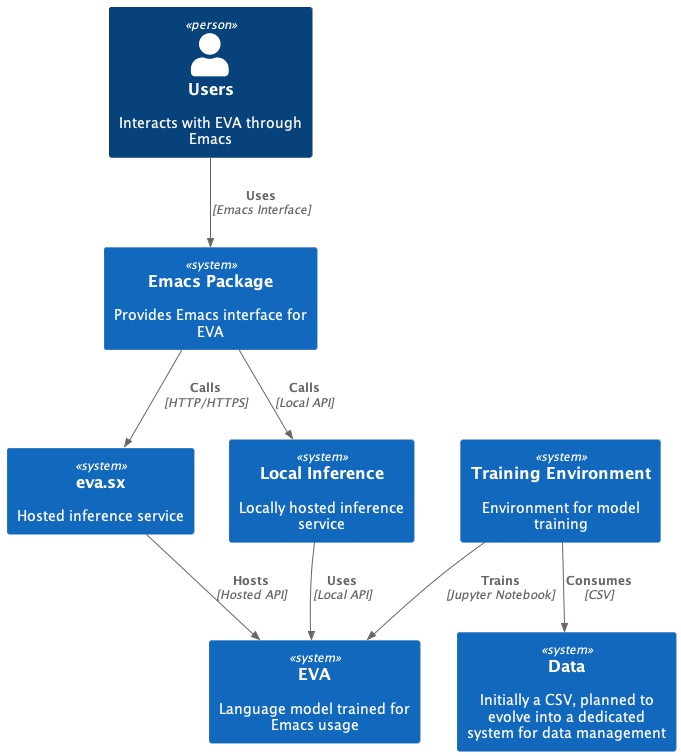
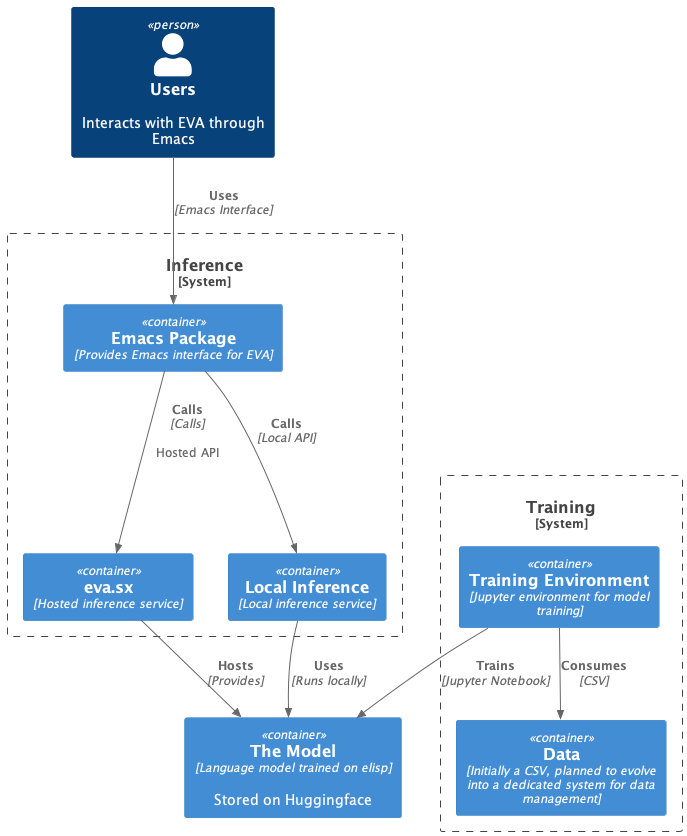
finshed draft

diff --git a/README.md b/README.md
@@ -1,13 +1,15 @@
 # EVA - Emacs Virtual Assistant
 <img src="assets/EVA-350.jpg" align="right" />
-EVA is the first AI trained to work along side you, in Emacs.
-The goal is to have her take on more and more of the actual manipulation of Emacs and its buffer content, while the human provides instructions and feedback. 
-This is to be achieved through a combination of a general-purpose language model and several specialized agents (coding, reasoning, memory, or [contribute](https://github.com/LazerJesus/EVA#contribution) your own); all trained on elisp, which is piped directly into the REPL.
-The project is under active development and has not yet launched. There is a proof of concept system in place, but it does not yet provide any value beyond being a proof of concept.
+EVA is the first AI designed to work along side you, in Emacs.
+The goal is to have her take on more and more of the actual manipulation of Emacs and its buffer content, while the user provides instructions and feedback. This is to be achieved through a language model trained on elisp.
+
+
+The project is under active development and has not yet launched. There is a finetuned Model, but it provides only limited functionality.
+
 
 If you haven't yet, read the announcement [Article](https://finnfrotscher.com/posts/eva-emacs-virtual-assistant/).
 
-My motivation for writing the article and this repository beyond gathering stars is (1) to convince you to contribute your valuable competence to this project and (2) to establish as a ground zero for a conversation about the model and application we are going to develop over the coming months and years. Hopefully.
+My motivations for writing the article and this repository are (1) to start a conversation about the model and application and (2) to convince you to contribute your valuable competence to this project.
 
 <div style="clear: both;"></div>
 
@@ -16,31 +18,10 @@ My motivation for writing the article and this repository beyond gathering stars
 | [Github](https://github.com/lazerjesus/eva) 
 | [Discord](https://discord.gg/9Uxn45ADJs)
 
-## Roadmap
-we have a few questions to answer before we can start building.
-on a high level those are (1) what do we launch first (2) how do we get data and (3) what do we build next.
-I have some ideas but I would love to hear yours. My ideas are summarized in challanges and strategy below. Please join the [Discord](https://discord.gg/9Uxn45ADJs) to discuss and contribute.
-
-## Challanges
-We are constrained in multiple dimensions and I see a few ways this project could go sideways. Those are data, ambition and timing. 
-
-### Data
-LLMs require large amounts of specific, high quality data and no such dataset exists for Emacs. We need data to train EVA to use Emacs. 
-
-### Ambition
-Getting lost in an overly large vision and not providing value immediately.
-
-### Timing
-Timing, or Performance. We are still very early in the development of LLMs, GPUs and the performance might just not be there yet. Maybe the model can't run on a local machines fast enough to provide a sane user with value. Maybe the model needs to be too large to be able to run locally. 
-
-## Strategy
-To solve these challanges I think we should focus on providing a small amount of value immediately and design the system in a way that allows us to add incremental value as the technology matures. Concretely this means that I think we should build and deploy a simple autocomplete system now. Probably based on Llama2. The value would be (1) that we start to build a community around the project. (2) That we provide immidiate value to users. (2) That we learn to run and deploy such a system in production. Then, in parallel, build out tools and methods for data aquisition and design custom models for specific, well defined tasks.
-
-I see two ways to get data. (1) We can generate it manually. Or (2) Users donate it. My sense is that it will be a combination of both. We provide a way for users to donate data, which is used to train the foundation model. And we maintain a high quality dataset by hand for finetuning the specific tasks and skills EVA should master.
-
-
 ##  Architecture
-Users interact with EVA through an Emacs package, which can communicate with either a locally hosted inference service or a hosted API at eva.sx. The core language model is trained in a separate environment and consumes the training data from a CSV. In the future, data should be generated and managed by a dedicated system.
+Let me provide an overview of the system I have in mind. Except for `eva.sx`, all components exist today, are open source and can be self-hosted. 
+
+Users interact with EVA through an Emacs package, which can communicate with either a locally hosted inference service or a hosted API. The core language model is trained in a separate environment and consumes the training data from a CSV. In the future, data should be generated and managed by a dedicated system. 
 
 <img src="docs/context.png" />
 
@@ -51,21 +32,57 @@ eva.sx: Centralized service hosting the inference API.
 Local Inference: Handles inference tasks for local setups.
 EVA: Core language model for code completion and Emacs functionalities.
 Training Environment: Separate setup for model training.
-Data: Initial CSV file for training, planned to evolve into a dedicated system.
+Data: Currently a CSV file, planned to evolve into a dedicated system.
 
+## Roadmap
+We have a few questions to answer before we can start building.
+on a high level those are 
+1. What do we launch first to provide immediate value?
+2. How do we get large amounts of high quality data?
+3. What do we build next?
+
+I have some ideas and I would love to hear yours. Please join the [Discord](https://discord.gg/9Uxn45ADJs) to discuss and contribute. My ideas are summarized below:
+
+## Challanges
+I see a few ways this project could go sideways and stale. Those are data, ambition and timing. 
+**Data** LLMs require large amounts of specific, high quality data and no such dataset exists for Emacs. 
+**Ambition** Getting lost in an overly large vision and not providing value immediately.
+**Timing** LLMs still require a lot of memory and compute, maybe prohibitively.
+
+## Strategy
+To solve these challanges I think we should focus on providing a small amount of value immediately and design the system in a way that allows us to add incremental value as the technology matures.
+
+I think we should build, deploy and monetize a simple autocomplete system now. Probably based on codellama.
+I beliebe this is the right strategy for the following reasons:
+(1) Since inference is costly and hosting it provides real value, we can monetize this to fund other aspects of the project. Like data generation!
+(2) We start to build a community around the project and are able to get users.
+(3) We learn to run and deploy such a system in production, as an OSS community.
+
+Once this is in place, we build out tools and methods for data aquisition and design custom models for EVA. I have some ideas here too but lets not get ahead of ourselves.
+
+## Miletstones
+From my current vanatage point, I see the project taking these three steps:
+
+### Alpha - Proof of Concept
+We are here. The idea is articulated and a demonstration of the system is available. Now we need to build a community around the project and decide what to do next.
+If the community agrees, we will build a hosted autocomplete service based on codellama and a system for data aquisition and curation. 
+
+### Beta - Working Autocomplete Service
+The beta phase is reached when we have a working autocomplete service. Now we can start to grow and monetize the service to support larger ambitions. Having users and cashflow allows us to take the first stab at the __real__ vision.
+
+### Version 1.0 - A Fully Working System
+Upon reaching version 1.0, we start itterating. What this will look like is up to the community to ideate and commit to.
 
 ## Data
-AI is very hungry for data. codellama was trained on 500.000.000.000 tokens. That's a lot of data. The 18k lines trainingset I used for the proof-of-concept is 740.722 tokens. 499.999.259.278 to go. We need to find a way to get data for EVA. Lets start with the types of data. For training EVA, we essentially need two types of datasets: 
+AI is very hungry for data. Codellama was trained on 500.000.000.000 tokens. That's a lot of data. The 18.000 lines trainingset I used for the proof-of-concept is 740.722 tokens. 499.999.259.278 to go. We need to find a way to get data for EVA.
+
+Lets start by looking at the types of data needed. For training EVA, we essentially need two types of datasets.
 
 ### Foundational Data
-This is a massive amount of data that might be generated by recording regular Emacs usage sessions, which would provide a broad base of interactions to train the foundational model. With this, EVA can learn how Emacs users behaves in a wide range of scenarios. 
+This is a massive amount of data that might be generated by recording regular Emacs usage sessions, which would provide a broad base of interactions to train the foundational model. With this, EVA can learn how Emacs users behaves in a wide range of scenarios. She learns how Emcas works.
   
-### High-Quality Instructions
-This smaller, curated data set will contain specific instructions and their corresponding Elisp outputs. It's has to be a carefully crafted set of interactions that helps fine-tune EVA's abilities and responses. This gives EVA the specific knowledge to perform certain tasks. 
-
-Creating these specialized datasets allows EVA to adapt to Emacs users' unique needs and provide quick and refined responses. Most of the work in the initial stages will go into generating and curating these training datasets.
-
-This method of progressively refining a foundational model with targeted data (transfer learning) will enable EVA to respond efficiently to both common and unique Emacs operations and requests.
+### Instruction Data
+This smaller, curated dataset will contain specific instructions and their corresponding Elisp outputs. It's has to be a carefully crafted set of interactions that helps fine-tune EVA's abilities and responses. This gives EVA the knowledge to perform specific tasks. 
 
 ### Currently
 Here's a sample from the current dataset that I used to finetune codellama:
@@ -75,7 +92,14 @@ Here's a sample from the current dataset that I used to finetune codellama:
 '''How can I know if the Emacs server is currently active?''';'''(equal (process-status server-process) (intern "run"))'''
 '''Run a Python script''';'''(shell-command (concat "python " (read-file-name "Enter the name of the Python script: ")))'''
 ```
-As you can see, the data is a simple CSV file with two columns: the instruction and the corresponding Elisp code. Most of the data was AI generated. Currently its not useful boyond proof of concept.
+As you can see, the data is a simple CSV file with two columns: the prompt and the corresponding Elisp code. Most of the data was AI generated and is not useful boyond proof of concept.
+
+### How to get data
+I see two ways to get data. 
+1. We can generate it manually. 
+2. Users donate it. 
+
+My sense is that it will be a combination of both. We provide a way for users to donate data which will be used to train the foundation model. And we maintain a high quality dataset by hand for finetuning the specific tasks and skills EVA should master.
 
 ## Contribution
 Contributing to EVA can take several forms and be aligned with different phases of the project. I am seeking help with data, development of the Elisp client, design and provisioning of the model, as well as insightful discussions and feedback.
@@ -89,27 +113,7 @@ A robust Emacs package is critical for smooth interaction between EVA and Emacs.
 ### Model Development 
 The choice and design of our model architecture plays a key role in the success of EVA. Participating in discussions and experiments around potential model architectures would be a significant contribution at this stage.
 
-## Miletstones
-From my current vanatage point, I see the project evolving in three steps. 
-
-### Alpha - Proof of Concept
-We are here. The idea is articulated and a demonstration of the concept is available. Now we need to build a community around the project and decide what to do next.
-If the community agrees, we will build a hosted autocomplete service based on codellama and a system for data aquisition and curation. 
-
-### Beta - Working Autocomplete Service
-The beta phase centers around refining a working autocomplete service to offer immediate, but limited, functionality to users.
-
-### Version 1.0 - A Fully Working System
-Upon reaching version 1.0, our aim out to be to have a first stab at a comprehensive system in place. What this will look like is up to the community to ideate and commit to.
-
 Regardless of the phase, your participation in conversations, contributions to the ongoing development, and usage of EVA are immensely valuable. Thank you for being a crucial part of the EVA project and helping enhance the capabilities of Emacs.
-
-## Model Card
-### Model Details
-The current model is fine-tuned on top of a 3b foundation model with a 300m Lora adapter.
-
-### Training Data
-The model was trained on 18,000 rows of instruction + Elisp pairs, covering topics from math to file administration. Most of the data was AI-generated.
 
 
 ## Contact
